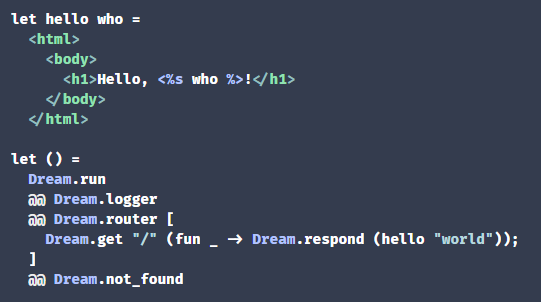
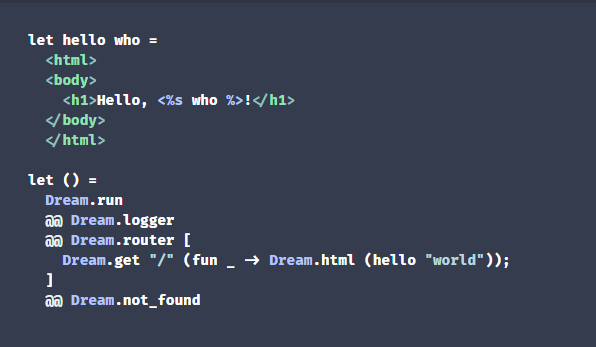
Edit README

Changed region(s): [[0.0, 0.4768, 0.976, 0.9536], [0.0, 0.0298, 0.5619, 0.4172], [0.3845, 0.8046, 0.414, 0.8344]]

diff --git a/docs/asset/sample.html b/docs/asset/sample.html
@@ -58,16 +58,16 @@ pre {
 <pre>
 <span class="keyword">let</span> hello who =
   <span class="html-punct">&lt;</span><span class="tag">html</span><span class="html-punct">></span>
-    <span class="html-punct">&lt;</span><span class="tag">body</span><span class="html-punct">></span>
-      <span class="html-punct">&lt;</span><span class="tag">h1</span><span class="html-punct">></span>Hello, <span class="template-punct"><%</span><span class="format">s</span> who <span class="template-punct">%></span>!<span class="html-punct">&lt;/</span><span class="tag">h1</span><span class="html-punct">></span>
-    <span class="html-punct">&lt;/</span><span class="tag">body</span><span class="html-punct">></span>
+  <span class="html-punct">&lt;</span><span class="tag">body</span><span class="html-punct">></span>
+    <span class="html-punct">&lt;</span><span class="tag">h1</span><span class="html-punct">></span>Hello, <span class="template-punct"><%</span><span class="format">s</span> who <span class="template-punct">%></span>!<span class="html-punct">&lt;/</span><span class="tag">h1</span><span class="html-punct">></span>
+  <span class="html-punct">&lt;/</span><span class="tag">body</span><span class="html-punct">></span>
   <span class="html-punct">&lt;/</span><span class="tag">html</span><span class="html-punct">></span>
 
 <span class="keyword">let</span> () =
   <span class="module">Dream</span>.run
   <span class="apply">@@</span> <span class="module">Dream</span>.logger
   <span class="apply">@@</span> <span class="module">Dream</span>.router <span class="punct">[</span>
-    <span class="module">Dream</span>.get <span class="string">"/"</span> (<span class="keyword fun">fun</span> _ <span class="punct">-></span> <span class="module">Dream</span>.respond (hello <span class="string">"world"</span>))<span class="punct">;</span>
+    <span class="module">Dream</span>.get <span class="string">"/"</span> (<span class="keyword fun">fun</span> _ <span class="punct">-></span> <span class="module">Dream</span>.html (hello <span class="string">"world"</span>))<span class="punct">;</span>
   <span class="punct">]</span>
   <span class="apply">@@</span> <span class="module">Dream</span>.not_found
 </pre>

diff --git a/README.md b/README.md
@@ -10,9 +10,14 @@ Easy-to-use, feature-complete Web framework without boilerplate.
 <img src="https://raw.githubusercontent.com/aantron/dream/master/docs/asset/sample.png"></img>
 </p>
 
-<br>
-
-<pre align="center"><b>bash -c "$(curl -fsSL https://raw.githubusercontent.com/aantron/dream/master/example/quickstart.sh)"</b></pre>
+<p align="center">
+  <a href="#quick-start">Quick Start</a> |
+  <a href="http://dream.as">Playground</a> |
+  <a href="https://github.com/aantron/dream/tree/master/example#readme">
+    Tutorial</a> |
+  <a href="https://aantron.github.io/dream/">Reference</a>
+  &nbsp;&nbsp;
+</p>
 
 <br>
 <br>
@@ -29,7 +34,7 @@ Dream is **one flat module** in **one package**, documented on
   proxy.
 - Helpers for [**secure cookies**][cookies] and
   [**CSRF-safe forms**][forms].
-- **Full-stack ML** with clients by [**Melange**][melange],
+- **Full-stack ML** with clients compiled by [**Melange**][melange],
   [**ReScript**][rescript], or [**js_of_ocaml**][jsoo].
 
 <br>
@@ -42,6 +47,8 @@ Dream is **one flat module** in **one package**, documented on
 - [**Cryptography**][crypto] helpers, key rotation, and a chosen cipher.
 - A neat [**logger**][logging], and attention to configuring the OCaml runtime
   nicely.
+- [**Deployment**][deploy] instructions for **Digital Ocean** and **Heroku**,
+  with sample CI scripts.
 
 <br>
 
@@ -51,19 +58,25 @@ few [types][types] of its own &mdash; and some of those are just abbreviations
 for bare functions!
 
 The neat interface is not a limitation. Everything is still configurable by a
-large number of optional arguments. Where necessary, Dream exposes the
-lower-level machinery that it is composed from. For example, the basic body and
-WebSocket readers return strings, but you can also do [zero-copy
-streaming][streaming].
+large number of optional arguments, and very loose coupling. Where necessary,
+Dream exposes the lower-level machinery that it is composed from. For example,
+the basic body and WebSocket readers [return strings][basic-read], but you can
+also do [zero-copy streaming][streaming].
 
 You can even run Dream as a [quite bare abstraction][raw] over its [underlying
 set of HTTP libraries][vendor], where it acts only as minimal glue code between
-their slightly different interfaces, and takes care of horridness like
-[ALPN][alpn].
+their slightly different interfaces.
 
 And, even though Dream is presented as one package for ordinary usage, it is
 internally factored into [several sub-libraries][libs], according to the
 different dependencies of each, for fast porting to different environments.
+
+Dream is a low-level and unopinionated framework, and you can swap out its
+conveniences. For example, you can use TyXML with [server-side JSX][jsx]
+instead of Dream's built-in templates. You can bundle assets into a [single
+Dream binary][one-binary], or use Dream in a subcommand. Dream tries to be as
+functional as possible, touching global runtime state only lazily, when called
+into.
 
 [https]: https://github.com/aantron/dream/tree/master/example/l-https#files
 [websocket]: https://github.com/aantron/dream/tree/master/example/k-websocket#files
@@ -84,37 +97,37 @@ different dependencies of each, for fast porting to different environments.
 [rescript]: https://github.com/aantron/dream/tree/master/example/w-fullstack-rescript#files
 [jsoo]: https://github.com/aantron/dream/tree/master/example/w-fullstack-jsoo#files
 [types]: https://aantron.github.io/dream/#types
+[basic-read]: https://aantron.github.io/dream/#val-body
 [streaming]: https://aantron.github.io/dream/#streaming
 [raw]: https://aantron.github.io/dream/#builtin
 [alpn]: https://en.wikipedia.org/wiki/Application-Layer_Protocol_Negotiation
 [libs]: https://github.com/aantron/dream/tree/master/src
+[deploy]: https://github.com/aantron/dream/tree/master/example#deploying
+[jsx]: https://github.com/aantron/dream/tree/master/example/r-tyxml#files
+[one-binary]: https://github.com/aantron/dream/tree/master/example/w-one-binary#files
 
 <br>
 
 ## Quick start
 
-```
-bash -c "$(curl -fsSL https://raw.githubusercontent.com/aantron/dream/master/example/quickstart.sh)"
-```
+<pre><b>bash -c "$(curl -fsSL https://raw.githubusercontent.com/aantron/dream/master/example/quickstart.sh)"</b></pre>
 
-This [script][quickstart.sh] does a sandboxed build of one of the first
-[tutorials][tutorial], [**`2-middleware`**][2-middleware], which you can then
-edit.
-
-It's mostly the same as:
+This downloads and runs [`quickstart.sh`][quickstart.sh], which does a
+sandboxed build of one of the first [tutorials][tutorial],
+[**`2-middleware`**][2-middleware]. It's mostly the same as:
 
 ```
-git clone https://github.com/aantron/dream.git
+git clone https://github.com/aantron/dream.git --recursive
 cd dream/example/2-middleware
 npm install esy && npx esy
 npx esy start
 ```
 
 Knowing that, you can start from any other [example][tutorial]. All of them
-include their own build commands. You can copy them out to start your own
-project directory. Especially consider starting with the
-[full-stack examples][fullstack], which build both a Dream server and a
-JavaScript client.
+include their own build commands. They don't have to be subdirectories of
+`dream` &mdash; you can copy them out to start your own project directory.
+Especially consider starting with the [full-stack examples][fullstack], which
+build both a Dream server and a JavaScript client.
 
 ### opam
 
@@ -130,10 +143,18 @@ cd example/1-hello
 dune exec --root . ./hello.exe
 ```
 
+### Playground
+
+Most of the examples are loaded into the [playground][playground]. For instance,
+[**`2-middleware`**][2-middleware] is at
+[http://dream.as/2-middleware][2-middleware-playground].
+
 [esy-example]: https://github.com/aantron/dream/tree/master/example/w-esy#files
 [quickstart.sh]: https://github.com/aantron/dream/blob/master/example/quickstart.sh
 [esy]: https://esy.sh/
 [2-middleware]: https://github.com/aantron/dream/tree/master/example/2-middleware#files
+[playground]: http://dream.as
+[2-middleware-playground]: http://dream.as/2-middleware
 
 <br>
 
@@ -152,6 +173,7 @@ dune exec --root . ./hello.exe
   small-to-medium deployments.
 - [**Examples**][examples] &mdash; These cover various HTTP scenarios.
 - [**API reference**][api-main]
+- [Watching][fswatch] and [live reloading][reload].
 
 [tutorial]: https://github.com/aantron/dream/tree/master/example#readme
 [examples]: https://github.com/aantron/dream/tree/master/example#examples
@@ -161,8 +183,8 @@ dune exec --root . ./hello.exe
 [deploying]: https://github.com/aantron/dream/tree/master/example#deploying
 [api-main]: https://aantron.github.io/dream/#types
 [fullstack]: https://github.com/aantron/dream/tree/master/example#full-stack
-
-<!-- TODO LATER CI badges, opam link badge, npm badge. -->
+[fswatch]: https://github.com/aantron/dream/tree/master/example/w-fswatch#files
+[reload]: https://github.com/aantron/dream/tree/master/example/w-live-reload#files
 
 <br>
 
@@ -171,7 +193,7 @@ dune exec --root . ./hello.exe
 Apart from the [issues](https://github.com/aantron/dream/issues), good places
 to discuss Dream are...
 
-- The [OCaml](https://discord.gg/DyhPFYGr) and/or
+- The [OCaml](https://discord.gg/DyhPFYGr) and
   [Reason](https://discord.gg/YCTDuzbg) Discord servers.
 - The [OCaml Discuss forum](https://discuss.ocaml.org/).
 
@@ -185,13 +207,11 @@ All kinds of contributions are welcome, including examples, links to blogs,
 related libraries, and, of course, PRs! See [CONTRIBUTING.md][contributing.md].
 
 As an immediate note, if you'd like to clone the repo, be sure to use
+`--recursive`, because Dream uses several git [submodules][vendor]:
 
 ```
 git clone https://github.com/aantron/dream.git --recursive
 ```
-
-The `--recursive` flag is necessary because Dream uses several git
-[submodules][vendor].
 
 [contributing.md]: https://github.com/aantron/dream/blob/master/docs/CONTRIBUTING.md
 
@@ -234,48 +254,3 @@ several influences that cannot be discovered directly:
 [seliopou]: https://github.com/seliopou
 [persianturtle]: https://github.com/persianturtle
 [foocraft]: https://github.com/foocraft
-
-<br>
-
-## Roadmap
-
-- [x] GraphQL subscriptions.
-- [ ] Optimizations: router, logger, microparsers (form data, etc.), fully
-      zero-allocation streaming.
-- [ ] WebSocket and stream backpressure.
-- [ ] HTTP3/QUIC.
-- [ ] Review JSON.
-- [ ] Review SQL prepared statements.
-- [ ] Switch to AEAD_AES_256_GCM_SIV for the cipher.
-- [ ] WebSocket streaming (frames).
-- [ ] Factor out internal sub-libraries to port Dream to MirageOS, etc.
-- [ ] Token rotation-based session management.
-- [ ] Lots of optionals for decoupling defaults, e.g. forms without CSRF
-      checking, SQL sessions with a different database.
-- [x] Bundle GraphiQL into a single HTML file that does not access any external
-      CDN.
-- [ ] Maybe a logo.
-- [ ] i18n helper, URL templates.
-- [ ] Auth library.
-- [ ] Maybe REST helpers.
-- [ ] Maybe Async support.
-- [ ] Multicore.
-- [ ] Effects.
-- [ ] Proxy headers support.
-- [ ] Introspection.
-- [ ] Dependency reduction, especially system dependencies.
-- [ ] And *lots*, *lots* more.
-
-
-
-<!-- Example install: how to install opam, how to install deps, add to Makefile
-     targets. -->
-<!-- hyperlink localhost in examples -->
-<!-- ld: /opt/local/libn ot found on mac -->
-<!-- Path parsing of # $ in targets -->
-<!-- update code in exampels -->
-<!-- Reason example -->
-<!-- Reason mode in docs -->
-<!-- examples: are exceptions isolated? yes -->
-<!-- Ctrl+C needed to get out of error page caues of no content-legnth -->
-<!-- esy workflow -->
